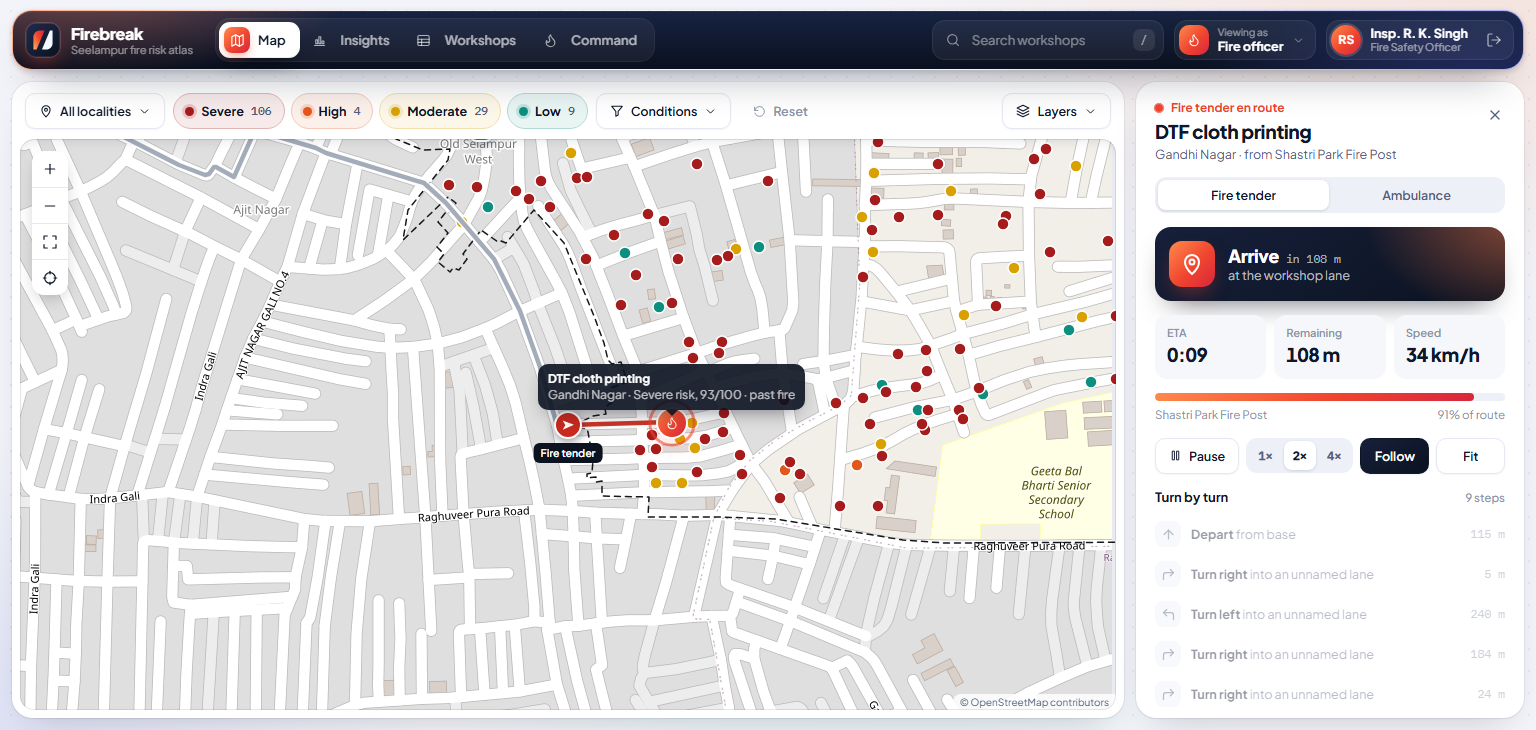
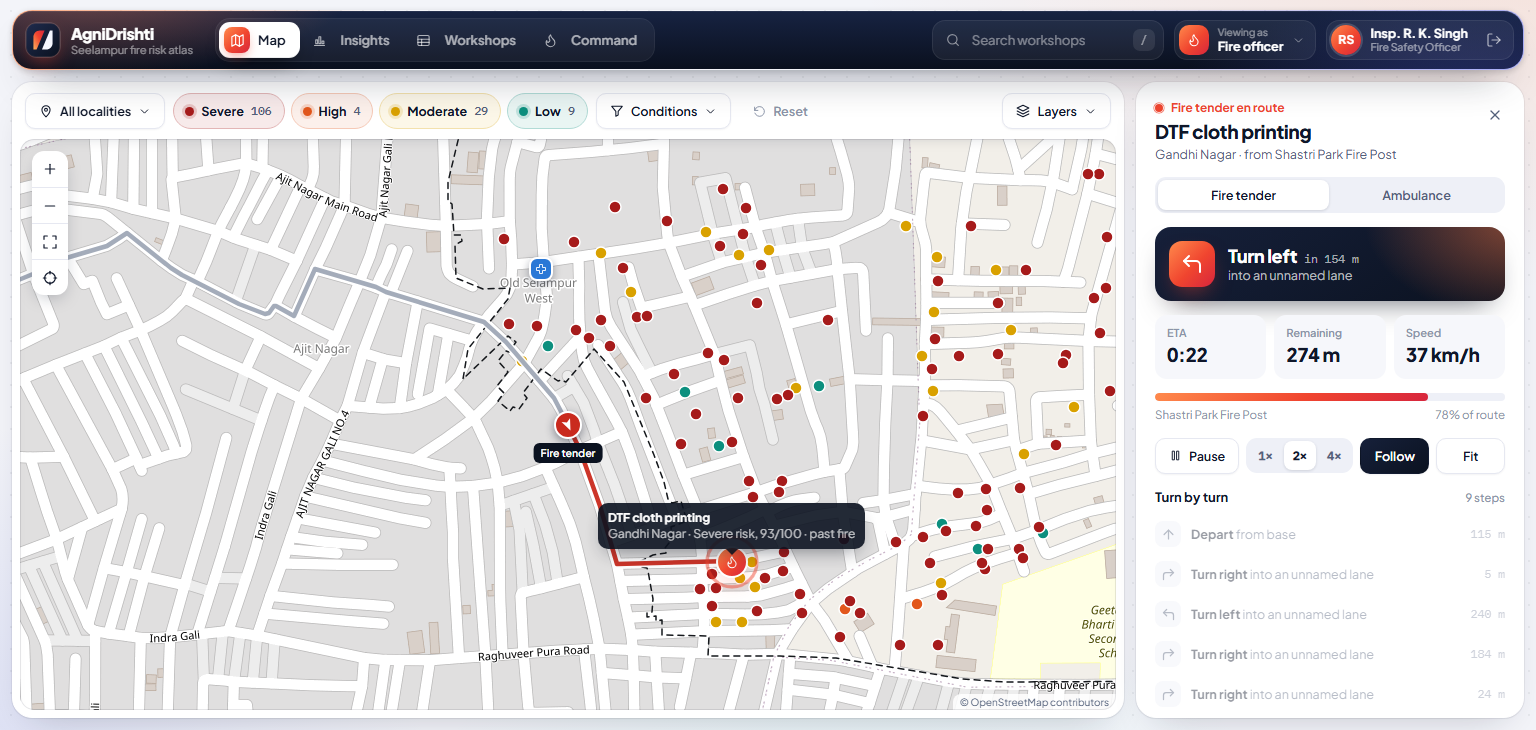
feat: rename the product to AgniDrishti
Replace Firebreak with AgniDrishti in the app shell, page metadata,
APP_NAME, logo label, Render blueprint comment and README, and refresh the
README screenshots. The Render service name and live URL are unchanged.

diff --git a/index.html b/index.html
@@ -4,10 +4,10 @@
   <meta charset="UTF-8">
   <meta name="viewport" content="width=device-width, initial-scale=1.0">
   <meta name="theme-color" content="#0B1220">
-  <meta name="description" content="Firebreak maps the fire risk of 148 surveyed workshops in Seelampur, North-East Delhi, scored for escape, hazard load and fire-brigade access.">
-  <title>Firebreak — Seelampur fire risk atlas</title>
+  <meta name="description" content="AgniDrishti maps the fire risk of 148 surveyed workshops in Seelampur, North-East Delhi, scored for escape, hazard load and fire-brigade access.">
+  <title>AgniDrishti — Seelampur fire risk atlas</title>
   <meta property="og:type" content="website">
-  <meta property="og:title" content="Firebreak — Seelampur fire risk atlas">
+  <meta property="og:title" content="AgniDrishti — Seelampur fire risk atlas">
   <meta property="og:description" content="See which workshops are at risk, and reach them fast. A fire risk atlas of 148 surveyed workshops in Seelampur, North-East Delhi.">
   <meta name="twitter:card" content="summary">
   <link rel="icon" type="image/svg+xml" href="assets/logo.svg">
@@ -20,7 +20,7 @@
   <link rel="stylesheet" href="css/app.css">
 </head>
 <body>
-  <noscript><p class="fatal">Firebreak needs JavaScript to run. Please enable it and reload.</p></noscript>
+  <noscript><p class="fatal">AgniDrishti needs JavaScript to run. Please enable it and reload.</p></noscript>
 
   <!-- =========================================================
        SIGN-IN
@@ -29,7 +29,7 @@
     <section class="login-hero">
       <div class="brand">
         <img src="assets/logo.svg" alt="" width="40" height="40">
-        <span class="brand-text"><b data-app-name>Firebreak</b><span>Seelampur fire risk atlas</span></span>
+        <span class="brand-text"><b data-app-name>AgniDrishti</b><span>Seelampur fire risk atlas</span></span>
       </div>
 
       <div class="login-copy">
@@ -80,7 +80,7 @@
     <header class="topbar">
       <a class="brand" href="#map" data-act="view" data-view="map">
         <img src="assets/logo.svg" alt="" width="34" height="34">
-        <span class="brand-text"><b data-app-name>Firebreak</b><span>Seelampur fire risk atlas</span></span>
+        <span class="brand-text"><b data-app-name>AgniDrishti</b><span>Seelampur fire risk atlas</span></span>
       </a>
 
       <nav class="tabs" id="nav" aria-label="Primary"></nav>

diff --git a/js/app.js b/js/app.js
@@ -1,4 +1,4 @@
-/* Firebreak, the Seelampur fire risk atlas — application logic.
+/* AgniDrishti, the Seelampur fire risk atlas — application logic.
    One filter state drives the map, insights, registry and role workspaces;
    every figure on screen is computed from the survey dataset in js/data.js. */
 (() => {
@@ -9,7 +9,7 @@
   // =========================================================
   // DOMAIN MODEL
   // =========================================================
-  const APP_NAME = 'Firebreak';
+  const APP_NAME = 'AgniDrishti';
   const TIERS = ['Severe', 'High', 'Moderate', 'Low'];
   // The Fire Risk Index is stored 0–1; people read it as a risk score out of 100, so `range` is in points.
   const TIER = {

diff --git a/README.md b/README.md
@@ -14,7 +14,7 @@ An interactive Web GIS platform and multi-criteria spatial risk assessment engin
 
 ## Visual Showcase
 
-### Firebreak — the Seelampur fire risk atlas
+### AgniDrishti — the Seelampur fire risk atlas
 One screen, no page scrolling: navigation along the top, a filter toolbar above the map, and a side panel that shows an overview until a workshop is selected.
 
 ![Risk map](assets/atlas-map.png)
